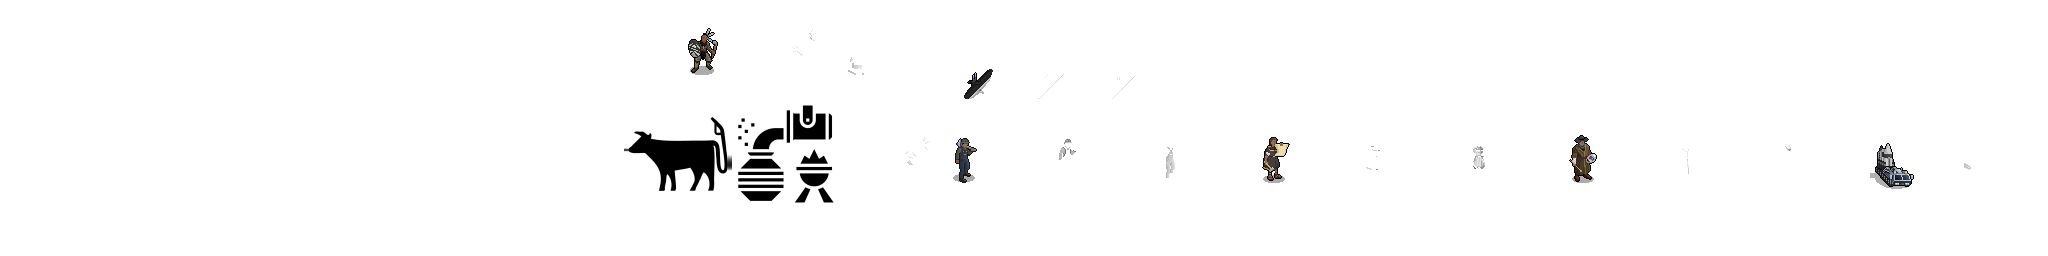
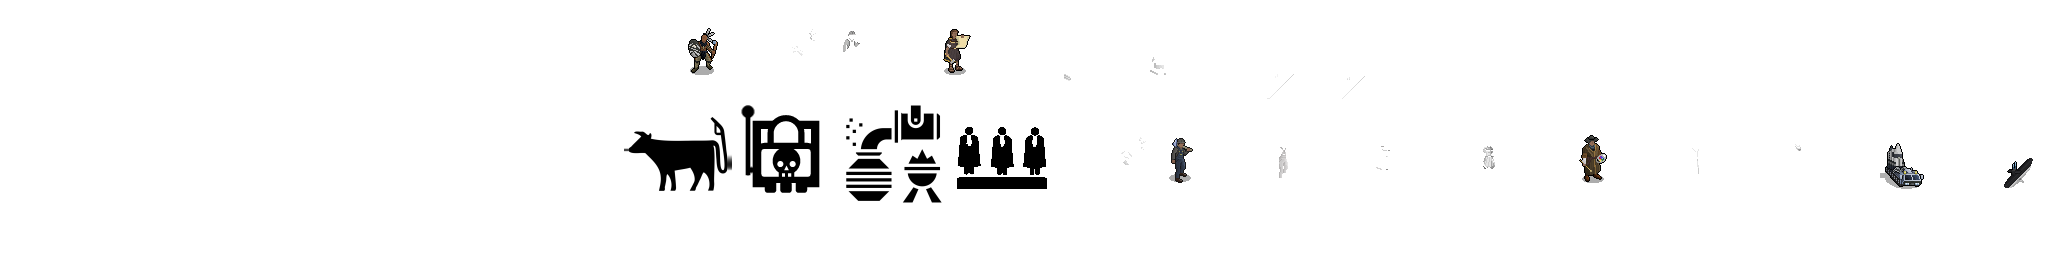
Add files via upload
Add building icon, remove barbarians exp.

diff --git a/README.md b/README.md
@@ -11,7 +11,6 @@ Original Mods:
 
 Addition:
 - Added missing Icon & Sprites
-- Max EXP for barbarians increased
 - Infinity of distance city bombard
 - Unitset Support: Absolute Units
 
